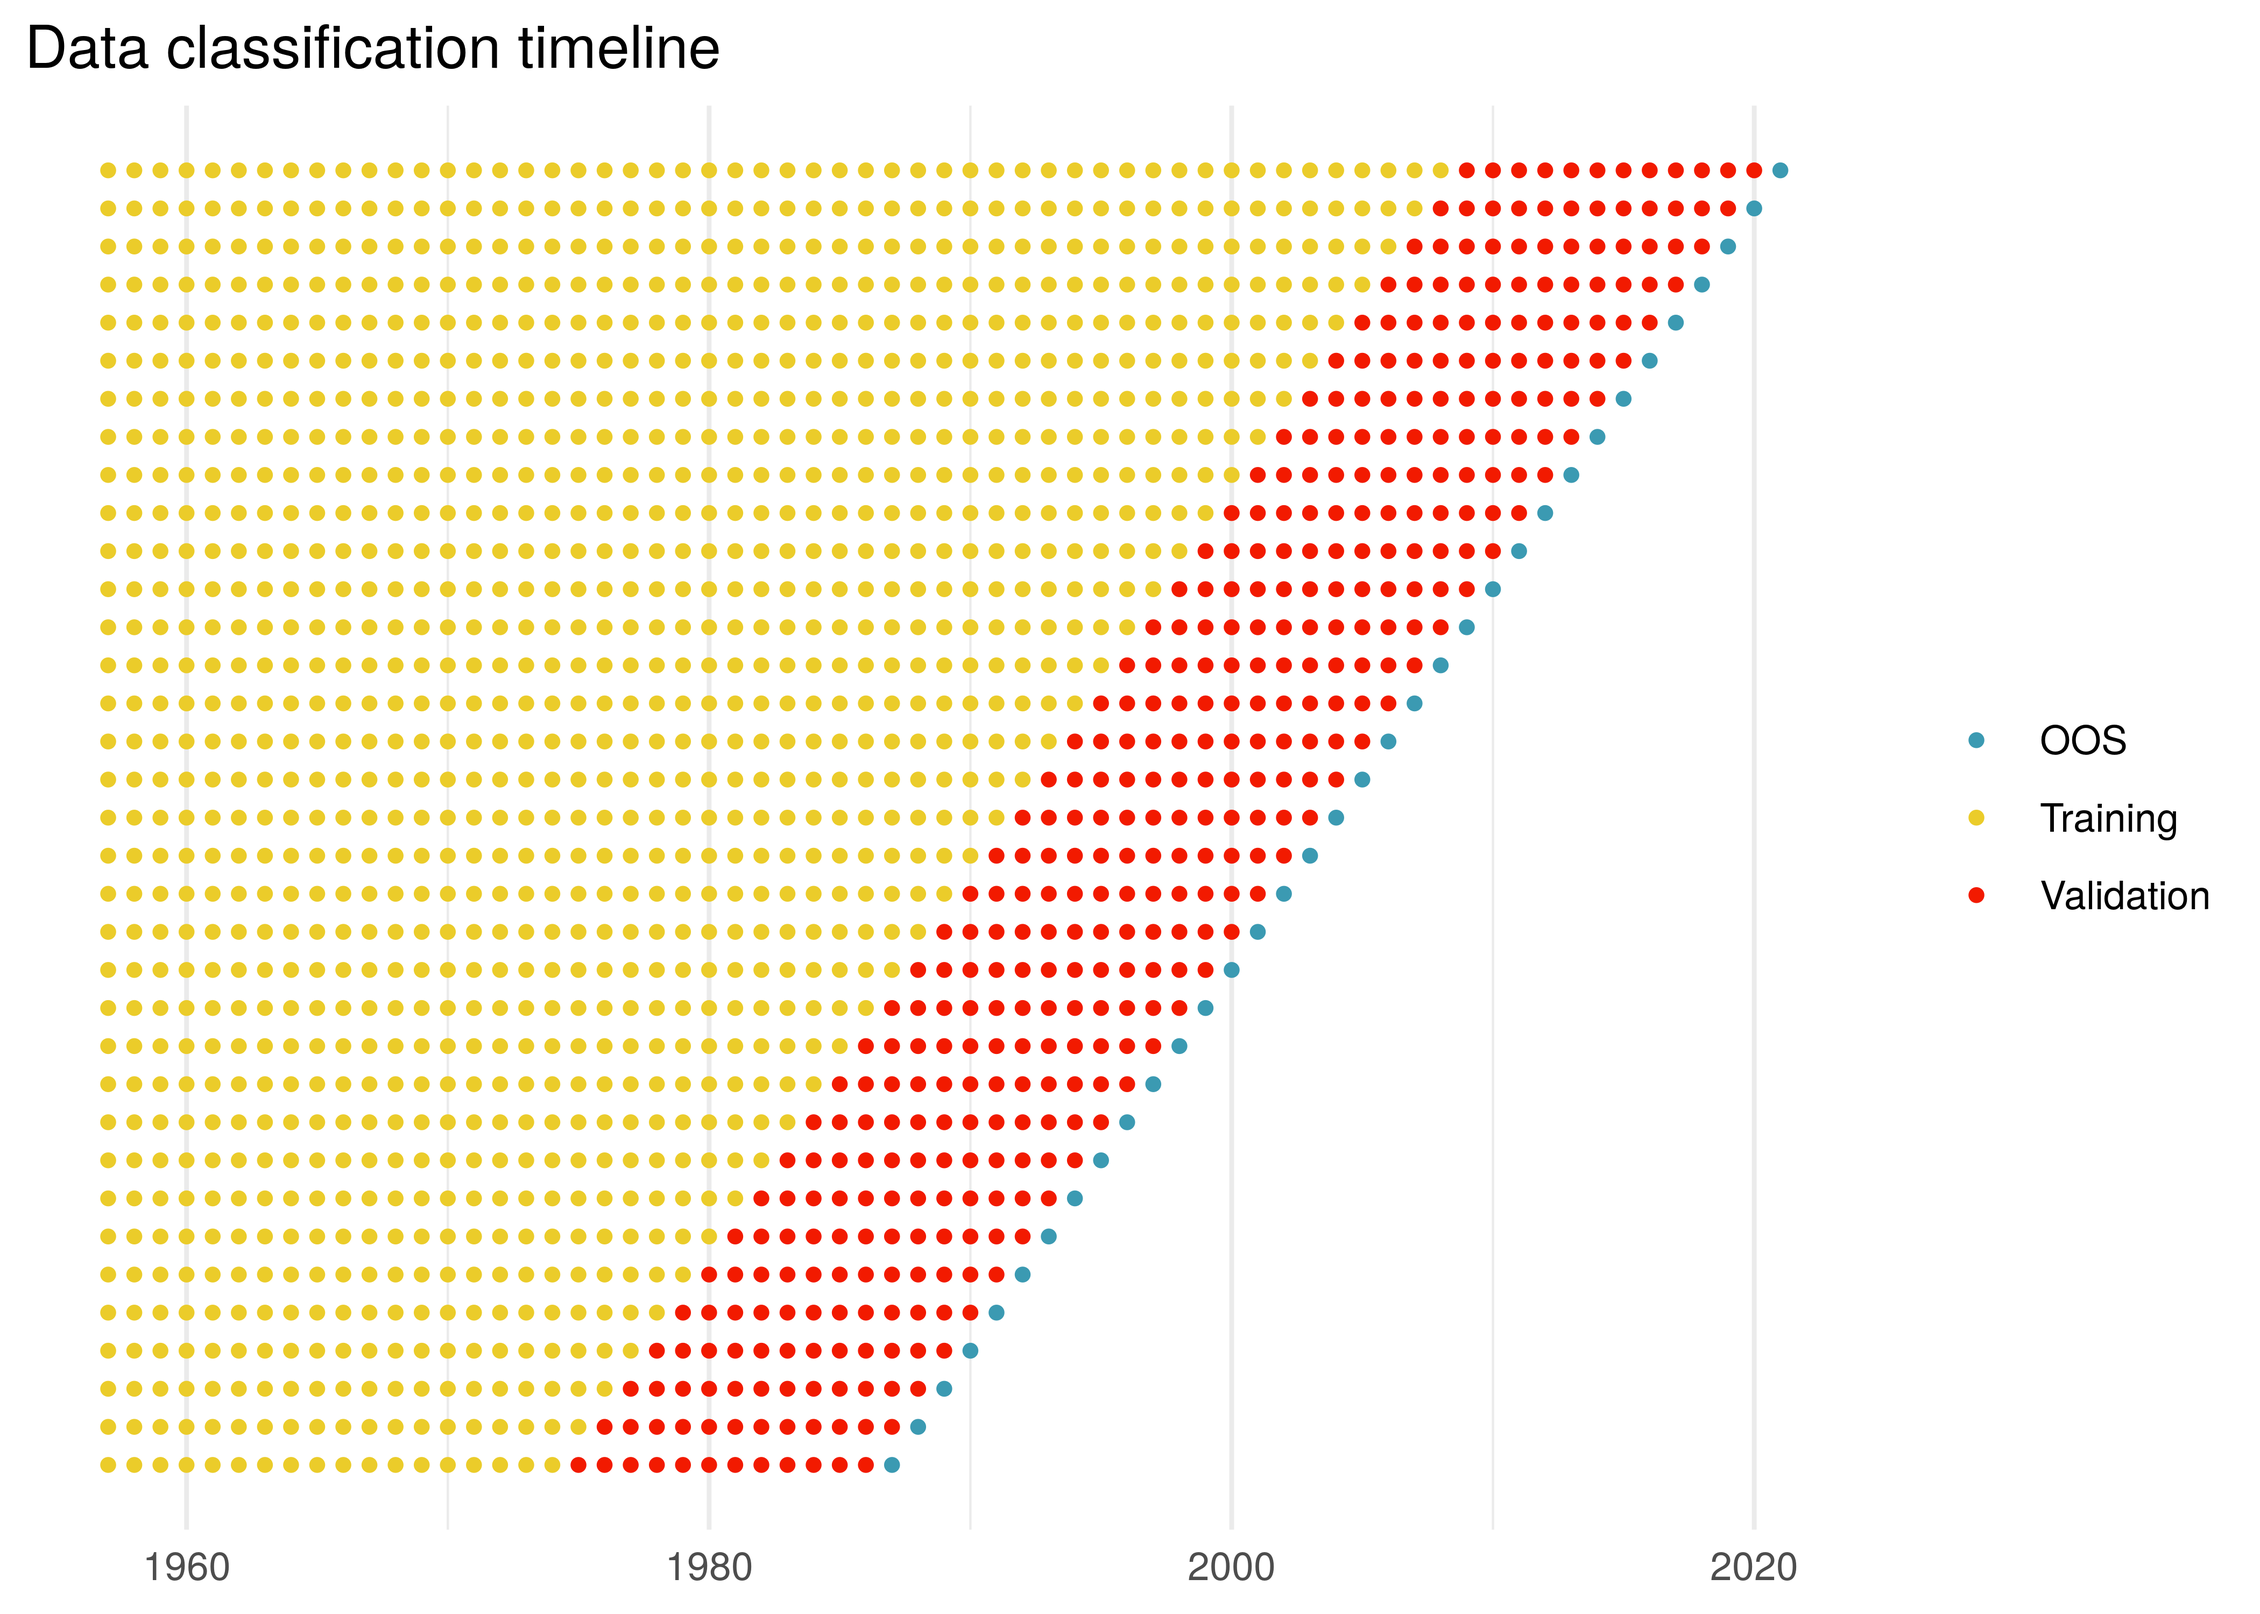
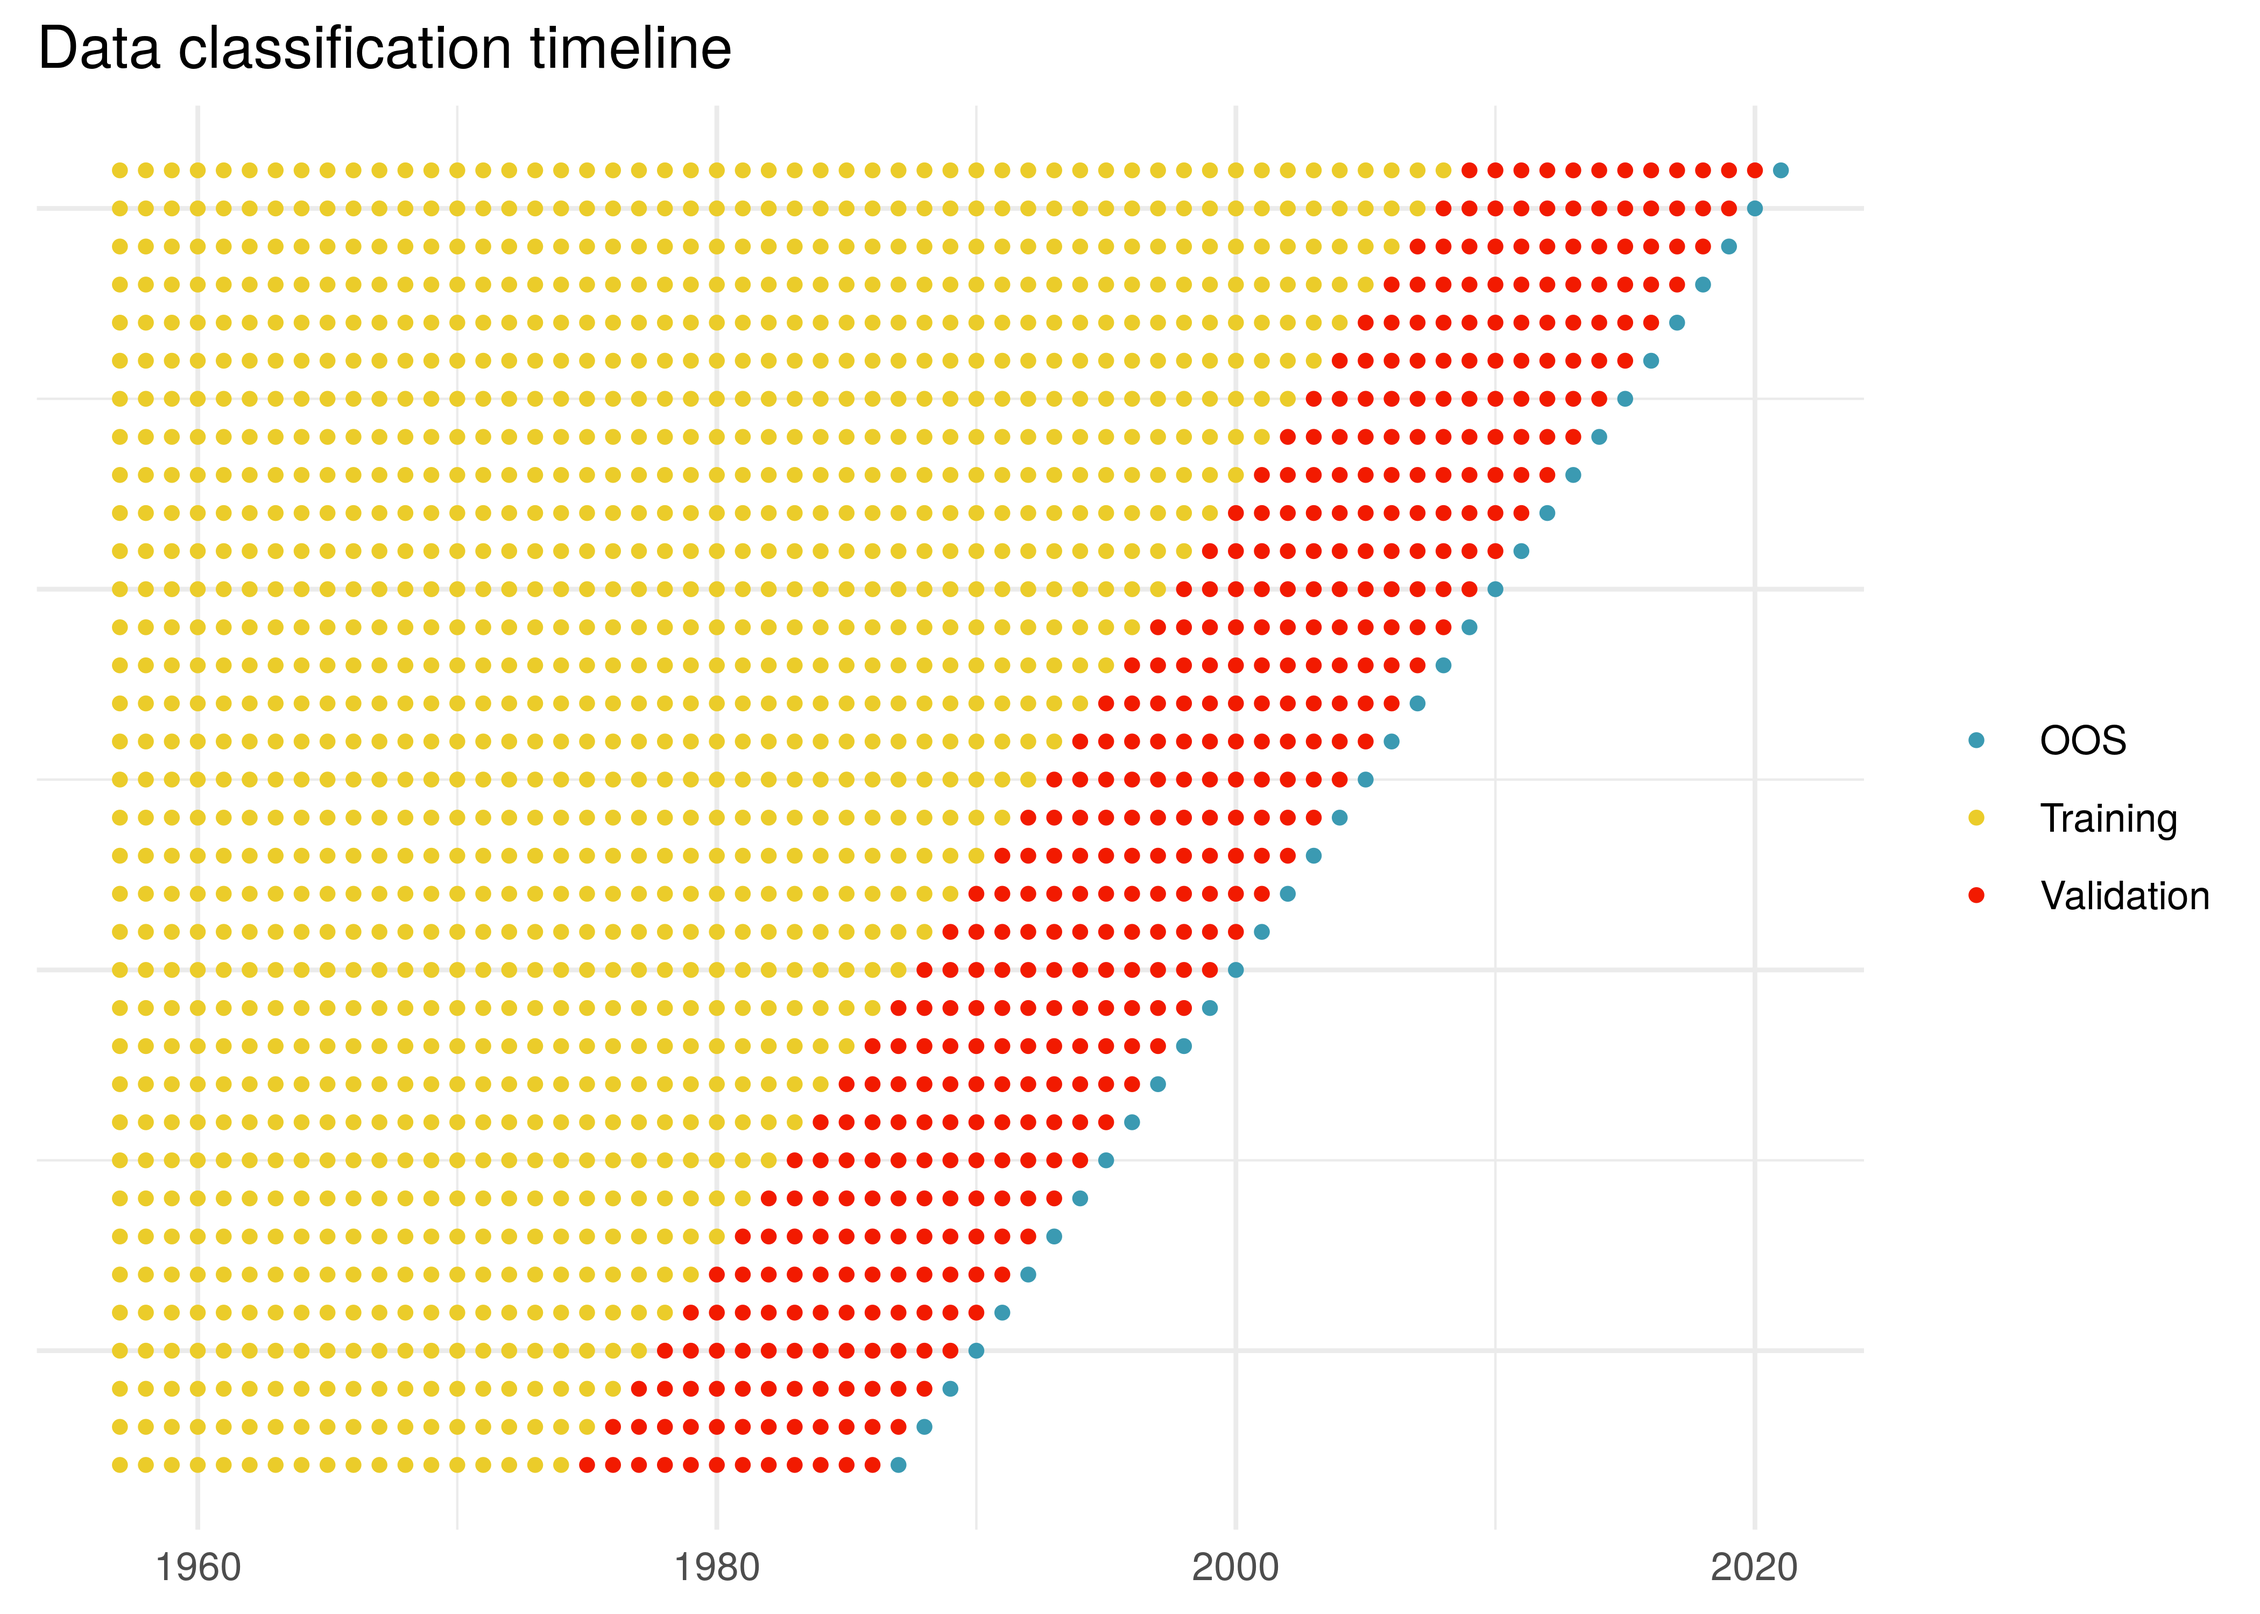
Final render for blog/gu-kelly-xiu-replication

diff --git a/docs/blog/gu-kelly-xiu-replication/index.html b/docs/blog/gu-kelly-xiu-replication/index.html
@@ -527,10 +527,11 @@ Warning
 <span id="cb9-24"><a href="#cb9-24" aria-hidden="true" tabindex="-1"></a><span class="fu">ggplot</span>(visualization_data, </span>
 <span id="cb9-25"><a href="#cb9-25" aria-hidden="true" tabindex="-1"></a>       <span class="fu">aes</span>(<span class="at">x =</span> year, <span class="at">y =</span> oos_year, <span class="at">color =</span> classification)) <span class="sc">+</span></span>
 <span id="cb9-26"><a href="#cb9-26" aria-hidden="true" tabindex="-1"></a>  <span class="fu">geom_point</span>(<span class="at">size =</span> <span class="dv">1</span>) <span class="sc">+</span></span>
-<span id="cb9-27"><a href="#cb9-27" aria-hidden="true" tabindex="-1"></a>  <span class="fu">scale_y_continuous</span>(<span class="at">breaks =</span> <span class="cn">NULL</span>) <span class="sc">+</span></span>
-<span id="cb9-28"><a href="#cb9-28" aria-hidden="true" tabindex="-1"></a>  <span class="fu">labs</span>(<span class="at">title =</span> <span class="st">"Data classification timeline"</span>,</span>
-<span id="cb9-29"><a href="#cb9-29" aria-hidden="true" tabindex="-1"></a>       <span class="at">x =</span> <span class="cn">NULL</span>, <span class="at">y =</span> <span class="cn">NULL</span>, <span class="at">color =</span> <span class="cn">NULL</span>) <span class="sc">+</span></span>
-<span id="cb9-30"><a href="#cb9-30" aria-hidden="true" tabindex="-1"></a>  <span class="fu">theme_minimal</span>()</span></code><button title="Copy to Clipboard" class="code-copy-button"><i class="bi"></i></button></pre></div>
+<span id="cb9-27"><a href="#cb9-27" aria-hidden="true" tabindex="-1"></a>  <span class="fu">labs</span>(<span class="at">title =</span> <span class="st">"Data classification timeline"</span>,</span>
+<span id="cb9-28"><a href="#cb9-28" aria-hidden="true" tabindex="-1"></a>       <span class="at">x =</span> <span class="cn">NULL</span>, <span class="at">y =</span> <span class="cn">NULL</span>, <span class="at">color =</span> <span class="cn">NULL</span>) <span class="sc">+</span></span>
+<span id="cb9-29"><a href="#cb9-29" aria-hidden="true" tabindex="-1"></a>  <span class="fu">theme_minimal</span>() <span class="sc">+</span></span>
+<span id="cb9-30"><a href="#cb9-30" aria-hidden="true" tabindex="-1"></a>  <span class="fu">theme</span>(<span class="at">axis.text.y =</span> <span class="fu">element_blank</span>(),</span>
+<span id="cb9-31"><a href="#cb9-31" aria-hidden="true" tabindex="-1"></a>        <span class="at">axis.ticks.y =</span> <span class="fu">element_blank</span>())</span></code><button title="Copy to Clipboard" class="code-copy-button"><i class="bi"></i></button></pre></div>
 <div class="cell-output cell-output-stderr">
 <pre><code>Warning: The `scale_name` argument of `discrete_scale()` is deprecated as of
 ggplot2 3.5.0.</code></pre>
@@ -725,7 +726,7 @@ ggplot2 3.5.0.</code></pre>
 <span id="cb21-15"><a href="#cb21-15" aria-hidden="true" tabindex="-1"></a>    <span class="at">.groups =</span> <span class="st">"drop"</span></span>
 <span id="cb21-16"><a href="#cb21-16" aria-hidden="true" tabindex="-1"></a>  )</span></code><button title="Copy to Clipboard" class="code-copy-button"><i class="bi"></i></button></pre></div>
 </div>
-<p>Finally, we evaluate the performance of the ML-portfolios. The table reports the predicted return, the average realized return, the standard deviation and the out-of-sample Sharpe ratio for each of the decile portfolios as well as the long-short zero-cost portfolio.</p>
+<p>Finally, we evaluate the performance of the ML-portfolios. The table reports the predicted return, the average realized return, the standard deviation, and the out-of-sample Sharpe ratio for each of the decile portfolios as well as the long-short zero-cost portfolio.</p>
 <div class="cell">
 <div class="sourceCode cell-code" id="cb22"><pre class="sourceCode r code-with-copy"><code class="sourceCode r"><span id="cb22-1"><a href="#cb22-1" aria-hidden="true" tabindex="-1"></a>hml_portfolio <span class="ot">&lt;-</span> ml_portfolios <span class="sc">|&gt;</span> </span>
 <span id="cb22-2"><a href="#cb22-2" aria-hidden="true" tabindex="-1"></a>  <span class="fu">reframe</span>(</span>
@@ -737,27 +738,27 @@ ggplot2 3.5.0.</code></pre>
 <span id="cb22-8"><a href="#cb22-8" aria-hidden="true" tabindex="-1"></a></span>
 <span id="cb22-9"><a href="#cb22-9" aria-hidden="true" tabindex="-1"></a>ml_portfolios <span class="sc">|&gt;</span></span>
 <span id="cb22-10"><a href="#cb22-10" aria-hidden="true" tabindex="-1"></a>  <span class="fu">bind_rows</span>(hml_portfolio) <span class="sc">|&gt;</span></span>
-<span id="cb22-11"><a href="#cb22-11" aria-hidden="true" tabindex="-1"></a>  <span class="fu">group_by</span>(<span class="at">portfolio =</span> portfolio) <span class="sc">|&gt;</span></span>
-<span id="cb22-12"><a href="#cb22-12" aria-hidden="true" tabindex="-1"></a>  <span class="fu">summarize</span>(<span class="at">Pred =</span> <span class="fu">mean</span>(ret_predicted), </span>
-<span id="cb22-13"><a href="#cb22-13" aria-hidden="true" tabindex="-1"></a>            <span class="at">Avg =</span> <span class="fu">mean</span>(ret_excess),</span>
-<span id="cb22-14"><a href="#cb22-14" aria-hidden="true" tabindex="-1"></a>            <span class="at">SD =</span> <span class="fu">sd</span>(ret_excess),</span>
-<span id="cb22-15"><a href="#cb22-15" aria-hidden="true" tabindex="-1"></a>            <span class="at">SR =</span> Avg <span class="sc">/</span> SD) <span class="sc">|&gt;</span></span>
+<span id="cb22-11"><a href="#cb22-11" aria-hidden="true" tabindex="-1"></a>  <span class="fu">group_by</span>(portfolio) <span class="sc">|&gt;</span></span>
+<span id="cb22-12"><a href="#cb22-12" aria-hidden="true" tabindex="-1"></a>  <span class="fu">summarize</span>(<span class="at">predicted_mean =</span> <span class="fu">mean</span>(ret_predicted), </span>
+<span id="cb22-13"><a href="#cb22-13" aria-hidden="true" tabindex="-1"></a>            <span class="at">realized_mean =</span> <span class="fu">mean</span>(ret_excess),</span>
+<span id="cb22-14"><a href="#cb22-14" aria-hidden="true" tabindex="-1"></a>            <span class="at">realized_sd =</span> <span class="fu">sd</span>(ret_excess),</span>
+<span id="cb22-15"><a href="#cb22-15" aria-hidden="true" tabindex="-1"></a>            <span class="at">sharpe_ratio =</span> realized_mean <span class="sc">/</span> realized_sd) <span class="sc">|&gt;</span></span>
 <span id="cb22-16"><a href="#cb22-16" aria-hidden="true" tabindex="-1"></a>  <span class="fu">print</span>(<span class="at">n =</span> <span class="cn">Inf</span>)</span></code><button title="Copy to Clipboard" class="code-copy-button"><i class="bi"></i></button></pre></div>
 <div class="cell-output cell-output-stdout">
 <pre><code># A tibble: 11 × 5
-   portfolio    Pred    Avg     SD    SR
-   &lt;fct&gt;       &lt;dbl&gt;  &lt;dbl&gt;  &lt;dbl&gt; &lt;dbl&gt;
- 1 1         0.00577 0.0138 0.0404 0.342
- 2 2         0.00782 0.0190 0.0378 0.502
- 3 3         0.00893 0.0191 0.0336 0.569
- 4 4         0.00991 0.0220 0.0360 0.611
- 5 5         0.0109  0.0194 0.0347 0.560
- 6 6         0.0120  0.0252 0.0340 0.740
- 7 7         0.0134  0.0215 0.0417 0.515
- 8 8         0.0155  0.0189 0.0464 0.406
- 9 9         0.0193  0.0261 0.0830 0.314
-10 10        0.0298  0.0441 0.159  0.278
-11 H-L       0.0241  0.0303 0.150  0.203</code></pre>
+   portfolio predicted_mean realized_mean realized_sd sharpe_ratio
+   &lt;fct&gt;              &lt;dbl&gt;         &lt;dbl&gt;       &lt;dbl&gt;        &lt;dbl&gt;
+ 1 1                0.00577        0.0138      0.0404        0.342
+ 2 2                0.00782        0.0190      0.0378        0.502
+ 3 3                0.00893        0.0191      0.0336        0.569
+ 4 4                0.00991        0.0220      0.0360        0.611
+ 5 5                0.0109         0.0194      0.0347        0.560
+ 6 6                0.0120         0.0252      0.0340        0.740
+ 7 7                0.0134         0.0215      0.0417        0.515
+ 8 8                0.0155         0.0189      0.0464        0.406
+ 9 9                0.0193         0.0261      0.0830        0.314
+10 10               0.0298         0.0441      0.159         0.278
+11 H-L              0.0241         0.0303      0.150         0.203</code></pre>
 </div>
 </div>
 <p>Obviously, the paper is doing much more. In particular, the debate on “which covariates matter” is interesting and not necessarily trivial to implement. However, covering even more goes beyond the scope of a simple blog post. I hope that the code base above helps to overcome any issues with implementing the more intriguing parts of the paper.</p>
@@ -1227,7 +1228,7 @@ window.document.addEventListener("DOMContentLoaded", function (event) {
     </div>
   </div>
 </footer>
-<script>var lightboxQuarto = GLightbox({"descPosition":"bottom","selector":".lightbox","closeEffect":"zoom","loop":false,"openEffect":"zoom"});
+<script>var lightboxQuarto = GLightbox({"closeEffect":"zoom","selector":".lightbox","descPosition":"bottom","openEffect":"zoom","loop":false});
 window.onload = () => {
   lightboxQuarto.on('slide_before_load', (data) => {
     const { slideIndex, slideNode, slideConfig, player, trigger } = data;
